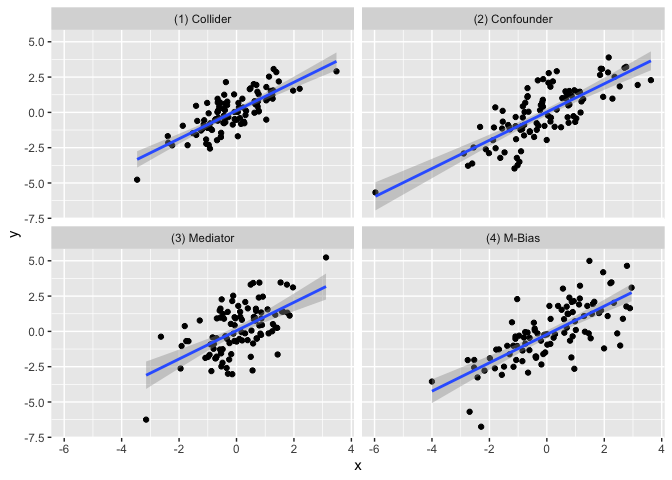
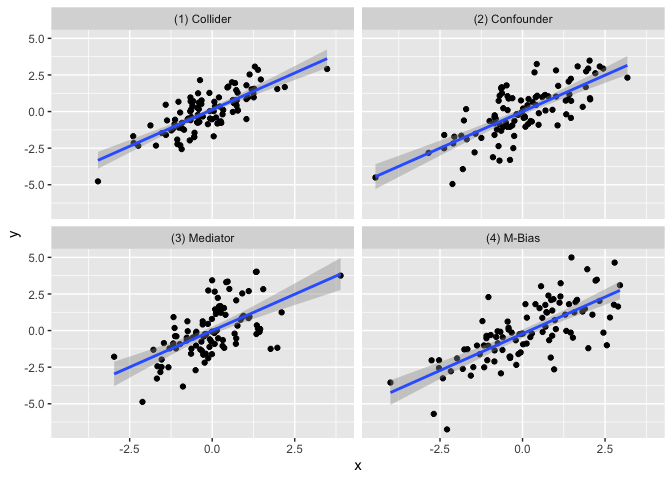
update data

diff --git a/README.md b/README.md
@@ -24,7 +24,7 @@ devtools::install_github("LucyMcGowan/causalquartet)
 ## Example
 
 ``` r
-library(ggplot2)
+library(tidyverse)
 library(causalquartet)
 
 ggplot(causalquartet, aes(x = x, y = y)) +
@@ -34,3 +34,20 @@ ggplot(causalquartet, aes(x = x, y = y)) +
 ```
 
 <img src="man/figures/README-unnamed-chunk-2-1.png" width="100%" />
+
+``` r
+causalquartet %>%
+  nest_by(type) %>%
+  mutate(`Y ~ X` = round(coef(lm(y ~ x, data = data))[2], 2),
+         `Y ~ X + Z` = round(coef(lm(y ~ x + z, data = data))[2], 2),
+         `Correlation of X and Z` = round(cor(data$x, data$z), 2)) %>%
+  select(-data, `Data generating mechanism` = type) %>%
+  knitr::kable()
+```
+
+| Data generating mechanism | Y \~ X | Y \~ X + Z | Correlation of X and Z |
+|:--------------------------|-------:|-----------:|-----------------------:|
+| \(1\) Collider            |      1 |       0.55 |                    0.7 |
+| \(2\) Confounder          |      1 |       0.50 |                    0.7 |
+| \(3\) Mediator            |      1 |       0.00 |                    0.7 |
+| \(4\) M-Bias              |      1 |       0.88 |                    0.7 |
